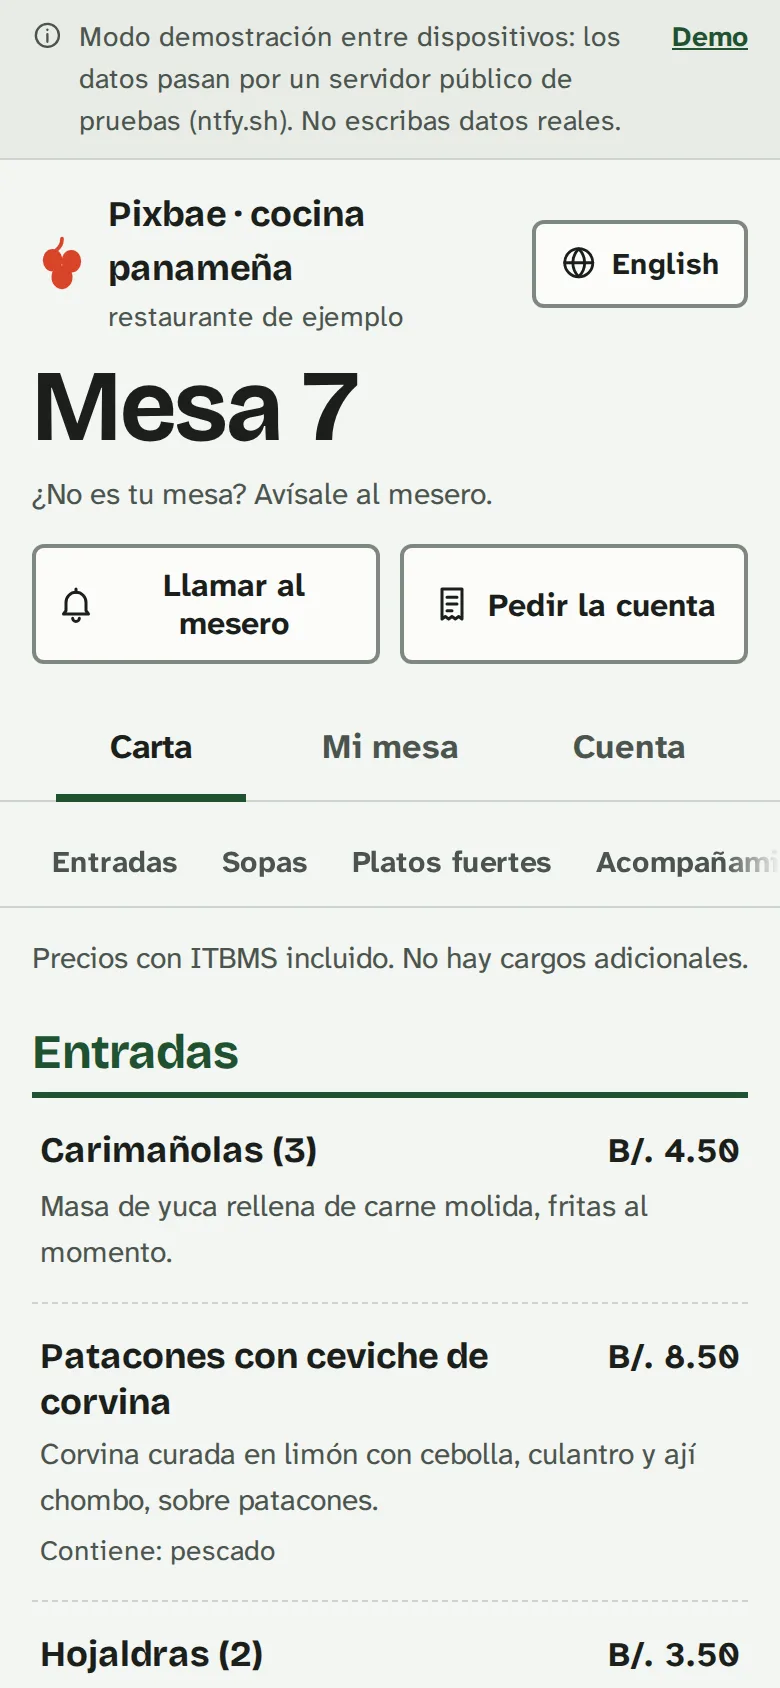
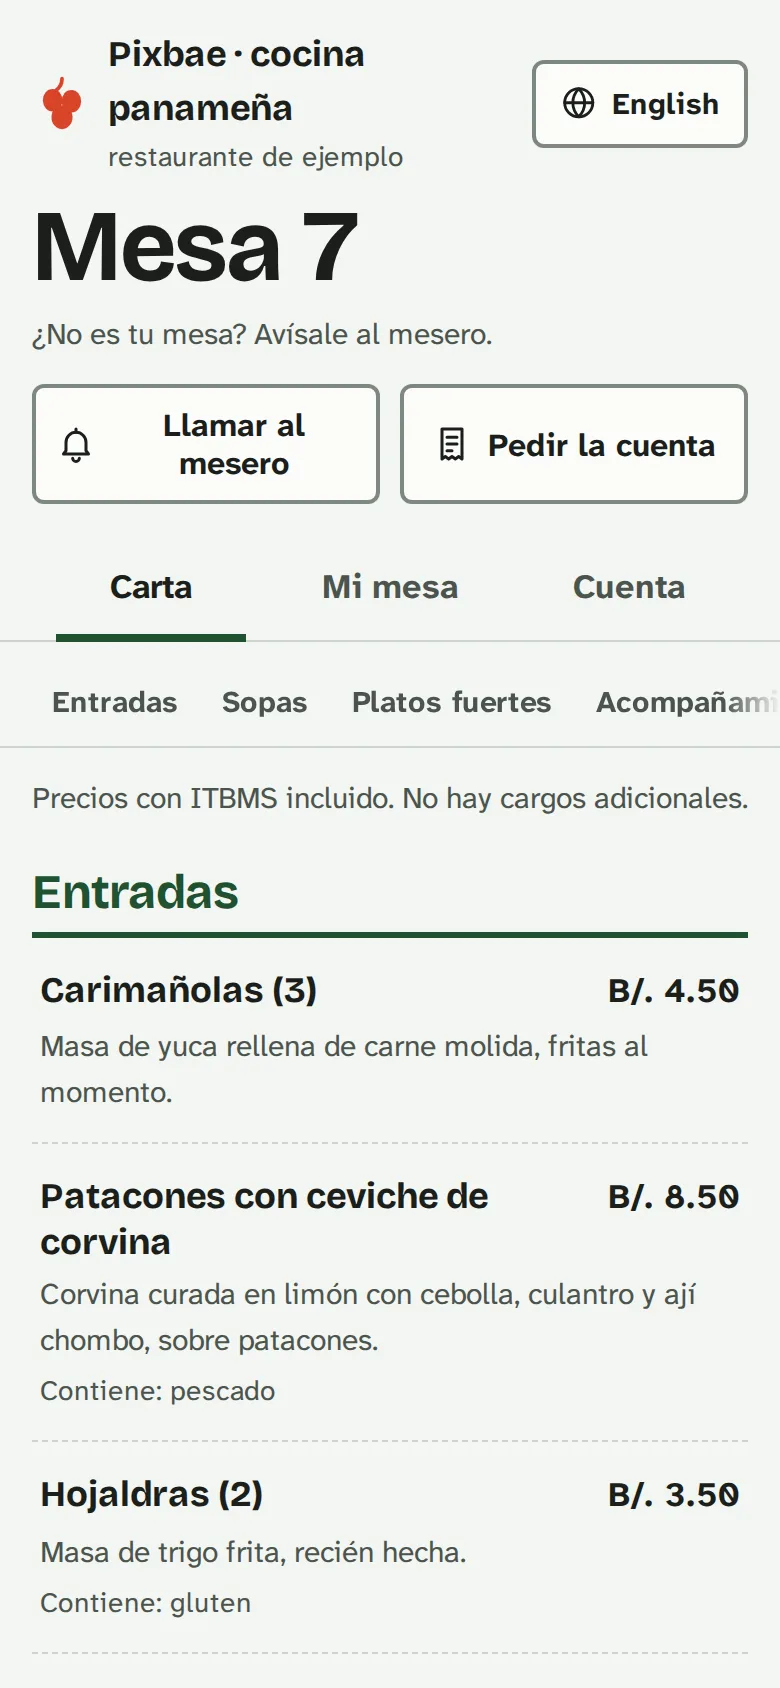
Primera pantalla: titular a todo el ancho y el producto grande junto a la búsqueda; en el teléfono la carta QR entra arriba
- escritorio: titular en 2 líneas; debajo, bajada, búsqueda y sugerencias a la izquierda y el portátil con el teléfono (el doble de grande) a la derecha
- teléfono: la carta QR recortada justo después de la bajada, antes de la búsqueda
- bajada de 34 a 20 palabras; 4 sugerencias en vez de 8
- capturas de mesa sin la franja «Modo demostración»
- con el héroe a la vista, «Pregúntanos» de la cabecera va con contorno: un solo botón ámbar

diff --git a/index.html b/index.html
@@ -111,11 +111,11 @@
   </div>
 </header>
 <main id="contenido">
-<section class="heroe heroe--producto" aria-labelledby="heroe-titulo">
+<section class="heroe heroe--producto heroe--portada" aria-labelledby="heroe-titulo">
   <div class="envoltura heroe__fila">
     <div class="heroe__texto">
       <h1 id="heroe-titulo" class="display heroe__titulo">Hacemos la tecnología de tu negocio y la instalamos en tu local.</h1>
-      <p class="heroe__bajada">Software, apps e inteligencia artificial, y las cámaras, sensores y pantallas instalados en tu local. Cobros con Yappy, factura electrónica con un PAC autorizado por la DGI y menú QR a $10 al mes.</p>
+      <p class="heroe__bajada">Software, apps e inteligencia artificial para tu negocio. Cobros con Yappy, factura electrónica con PAC y menú QR a $10 al mes.</p>
       <form class="heroe__buscar" role="search" data-buscar-en-linea action="servicios/">
         <svg class="ico" aria-hidden="true" focusable="false"><use href="#i-magnifying-glass"></use></svg>
         <label class="sr" for="heroe-campo">¿Qué necesitas?</label>
@@ -123,7 +123,7 @@
         <button class="boton boton--senal" type="submit">Buscar</button>
         <div class="heroe__resultados" id="heroe-resultados" tabindex="-1" hidden></div>
       </form>
-      <p class="heroe__prueba">Prueba con: <span class="sin-corte"><button type="button" class="chip-texto" data-buscar="pedir desde la mesa con qr">Pedidos con QR</button>,</span> <span class="sin-corte"><button type="button" class="chip-texto" data-buscar="contar personas que entran">Contar clientes</button>,</span> <span class="sin-corte"><button type="button" class="chip-texto" data-buscar="recordar citas a pacientes">Recordar citas</button>,</span> <span class="sin-corte"><button type="button" class="chip-texto" data-buscar="página web">Página web</button>,</span> <span class="sin-corte"><button type="button" class="chip-texto" data-buscar="inventario">Inventario</button>,</span> <span class="sin-corte"><button type="button" class="chip-texto" data-buscar="recorrido 3d de una propiedad">Recorrido 3D</button>,</span> <span class="sin-corte"><button type="button" class="chip-texto" data-buscar="cámaras de seguridad">Cámaras</button>,</span> <span class="sin-corte"><button type="button" class="chip-texto" data-buscar="chatbot de whatsapp">Chatbot</button>.</span></p>
+      <p class="heroe__prueba">Prueba con: <span class="sin-corte"><button type="button" class="chip-texto" data-buscar="pedir desde la mesa con qr">Pedidos con QR</button>,</span> <span class="sin-corte"><button type="button" class="chip-texto" data-buscar="contar personas que entran">Contar clientes</button>,</span> <span class="sin-corte"><button type="button" class="chip-texto" data-buscar="recordar citas a pacientes">Recordar citas</button>,</span> <span class="sin-corte"><button type="button" class="chip-texto" data-buscar="página web">Página web</button>.</span></p>
       <p class="heroe__diagnostico"><a class="boton boton--linea" href="diagnostico/"><svg class="ico" aria-hidden="true" focusable="false"><use href="#i-question"></use></svg>¿No sabes qué pedir? Responde 3 preguntas</a></p>
     </div>
     <figure class="heroe__producto">

diff --git a/assets/sitio.css b/assets/sitio.css
@@ -3642,3 +3642,107 @@ html.sin-desplazar {
   background: var(--tarjeta);
   box-shadow: 0 -1px 0 var(--linea);
 }
+
+/* ── portada: el titular a todo el ancho; abajo, la búsqueda y el producto (más grande) ── */
+.heroe--portada .heroe__fila {
+  grid-template-columns: minmax(0, 1fr);
+  grid-template-areas: 'titulo' 'bajada' 'producto' 'buscar' 'prueba' 'diag';
+  gap: var(--e-4);
+  align-items: start;
+}
+.heroe--portada .heroe__texto {
+  display: contents;
+}
+.heroe--portada .heroe__titulo {
+  grid-area: titulo;
+  font-size: 2.125rem;
+  max-width: none;
+}
+.heroe--portada .heroe__bajada {
+  grid-area: bajada;
+  margin-top: 0;
+}
+.heroe--portada .heroe__buscar {
+  grid-area: buscar;
+  margin-top: var(--e-2);
+}
+.heroe--portada .heroe__prueba {
+  grid-area: prueba;
+  margin-top: 0;
+}
+.heroe--portada .heroe__diagnostico {
+  grid-area: diag;
+  margin-top: 0;
+}
+.heroe--portada .heroe__producto {
+  grid-area: producto;
+}
+/* en el teléfono, solo la carta QR, recortada arriba, para que el producto entre en la primera pantalla */
+@media (max-width: 1039px) {
+  .heroe--portada {
+    padding-block: var(--e-6) var(--e-8);
+  }
+  .heroe--portada .heroe__dispositivos {
+    padding: 0;
+    max-width: none;
+  }
+  .heroe--portada .dispositivo--portatil {
+    display: none;
+  }
+  .heroe--portada .dispositivo--telefono {
+    position: relative;
+    width: min(62%, 260px);
+    margin-inline: auto;
+    border-radius: 26px 26px 0 0;
+    padding-bottom: 0;
+  }
+  .heroe--portada .dispositivo--telefono .dispositivo__pantalla {
+    aspect-ratio: 9 / 8.5;
+    border-radius: 19px 19px 0 0;
+  }
+  .heroe--portada .heroe__producto figcaption {
+    padding-left: 0;
+    text-align: center;
+    margin-inline: auto;
+  }
+}
+@media (min-width: 1040px) {
+  .heroe--portada .heroe__fila {
+    grid-template-columns: minmax(0, 0.95fr) minmax(0, 1.15fr);
+    grid-template-areas:
+      'titulo titulo'
+      'bajada producto'
+      'buscar producto'
+      'prueba producto'
+      'diag producto';
+    grid-template-rows: auto auto auto auto 1fr;
+    column-gap: var(--e-8);
+    row-gap: var(--e-4);
+  }
+  .heroe--portada .heroe__titulo {
+    font-size: clamp(2.75rem, 4.2vw, 3.6rem);
+    max-width: 24ch;
+    margin-bottom: var(--e-2);
+  }
+  .heroe--portada .heroe__producto {
+    align-self: start;
+  }
+}
+/* mientras se ve el héroe (con su «Buscar» ámbar), «Pregúntanos» de la cabecera va con contorno */
+.cabecera--sobre-heroe .cabecera__cta {
+  --b-fondo: transparent;
+  --b-texto: var(--tinta);
+  border-color: var(--tinta);
+}
+@media (min-width: 1040px) {
+  /* el teléfono es más alto que el portátil: el bloque reserva ese alto arriba para no tapar el titular */
+  .heroe--portada .heroe__dispositivos {
+    padding-top: 12%;
+  }
+}
+@media (min-width: 1040px) {
+  .heroe--portada .heroe__titulo {
+    max-width: none;
+    font-size: clamp(2.75rem, 3.9vw, 3.5rem);
+  }
+}

diff --git a/js/sitio.js b/js/sitio.js
@@ -412,6 +412,13 @@ if (formHeroe) {
 if ('requestIdleCallback' in window) requestIdleCallback(() => cargarIndice().catch(() => {}), { timeout: 4000 });
 else setTimeout(() => cargarIndice().catch(() => {}), 2000);
 
+// mientras el héroe de la portada está a la vista, un solo botón ámbar: «Pregúntanos» de la cabecera va con contorno
+const heroePortada = document.querySelector('.heroe--portada');
+const cabeceraEl = document.querySelector('[data-cabecera]');
+if (heroePortada && cabeceraEl && 'IntersectionObserver' in window) {
+  new IntersectionObserver(([e]) => cabeceraEl.classList.toggle('cabecera--sobre-heroe', e.isIntersecting), { rootMargin: '-80px 0px 0px 0px' }).observe(heroePortada);
+}
+
 // ── «Pregúntanos» rápido (banda al final de las páginas) ──
 for (const form of document.querySelectorAll('[data-pregunta-rapida]')) {
   form.addEventListener('submit', (e) => {
